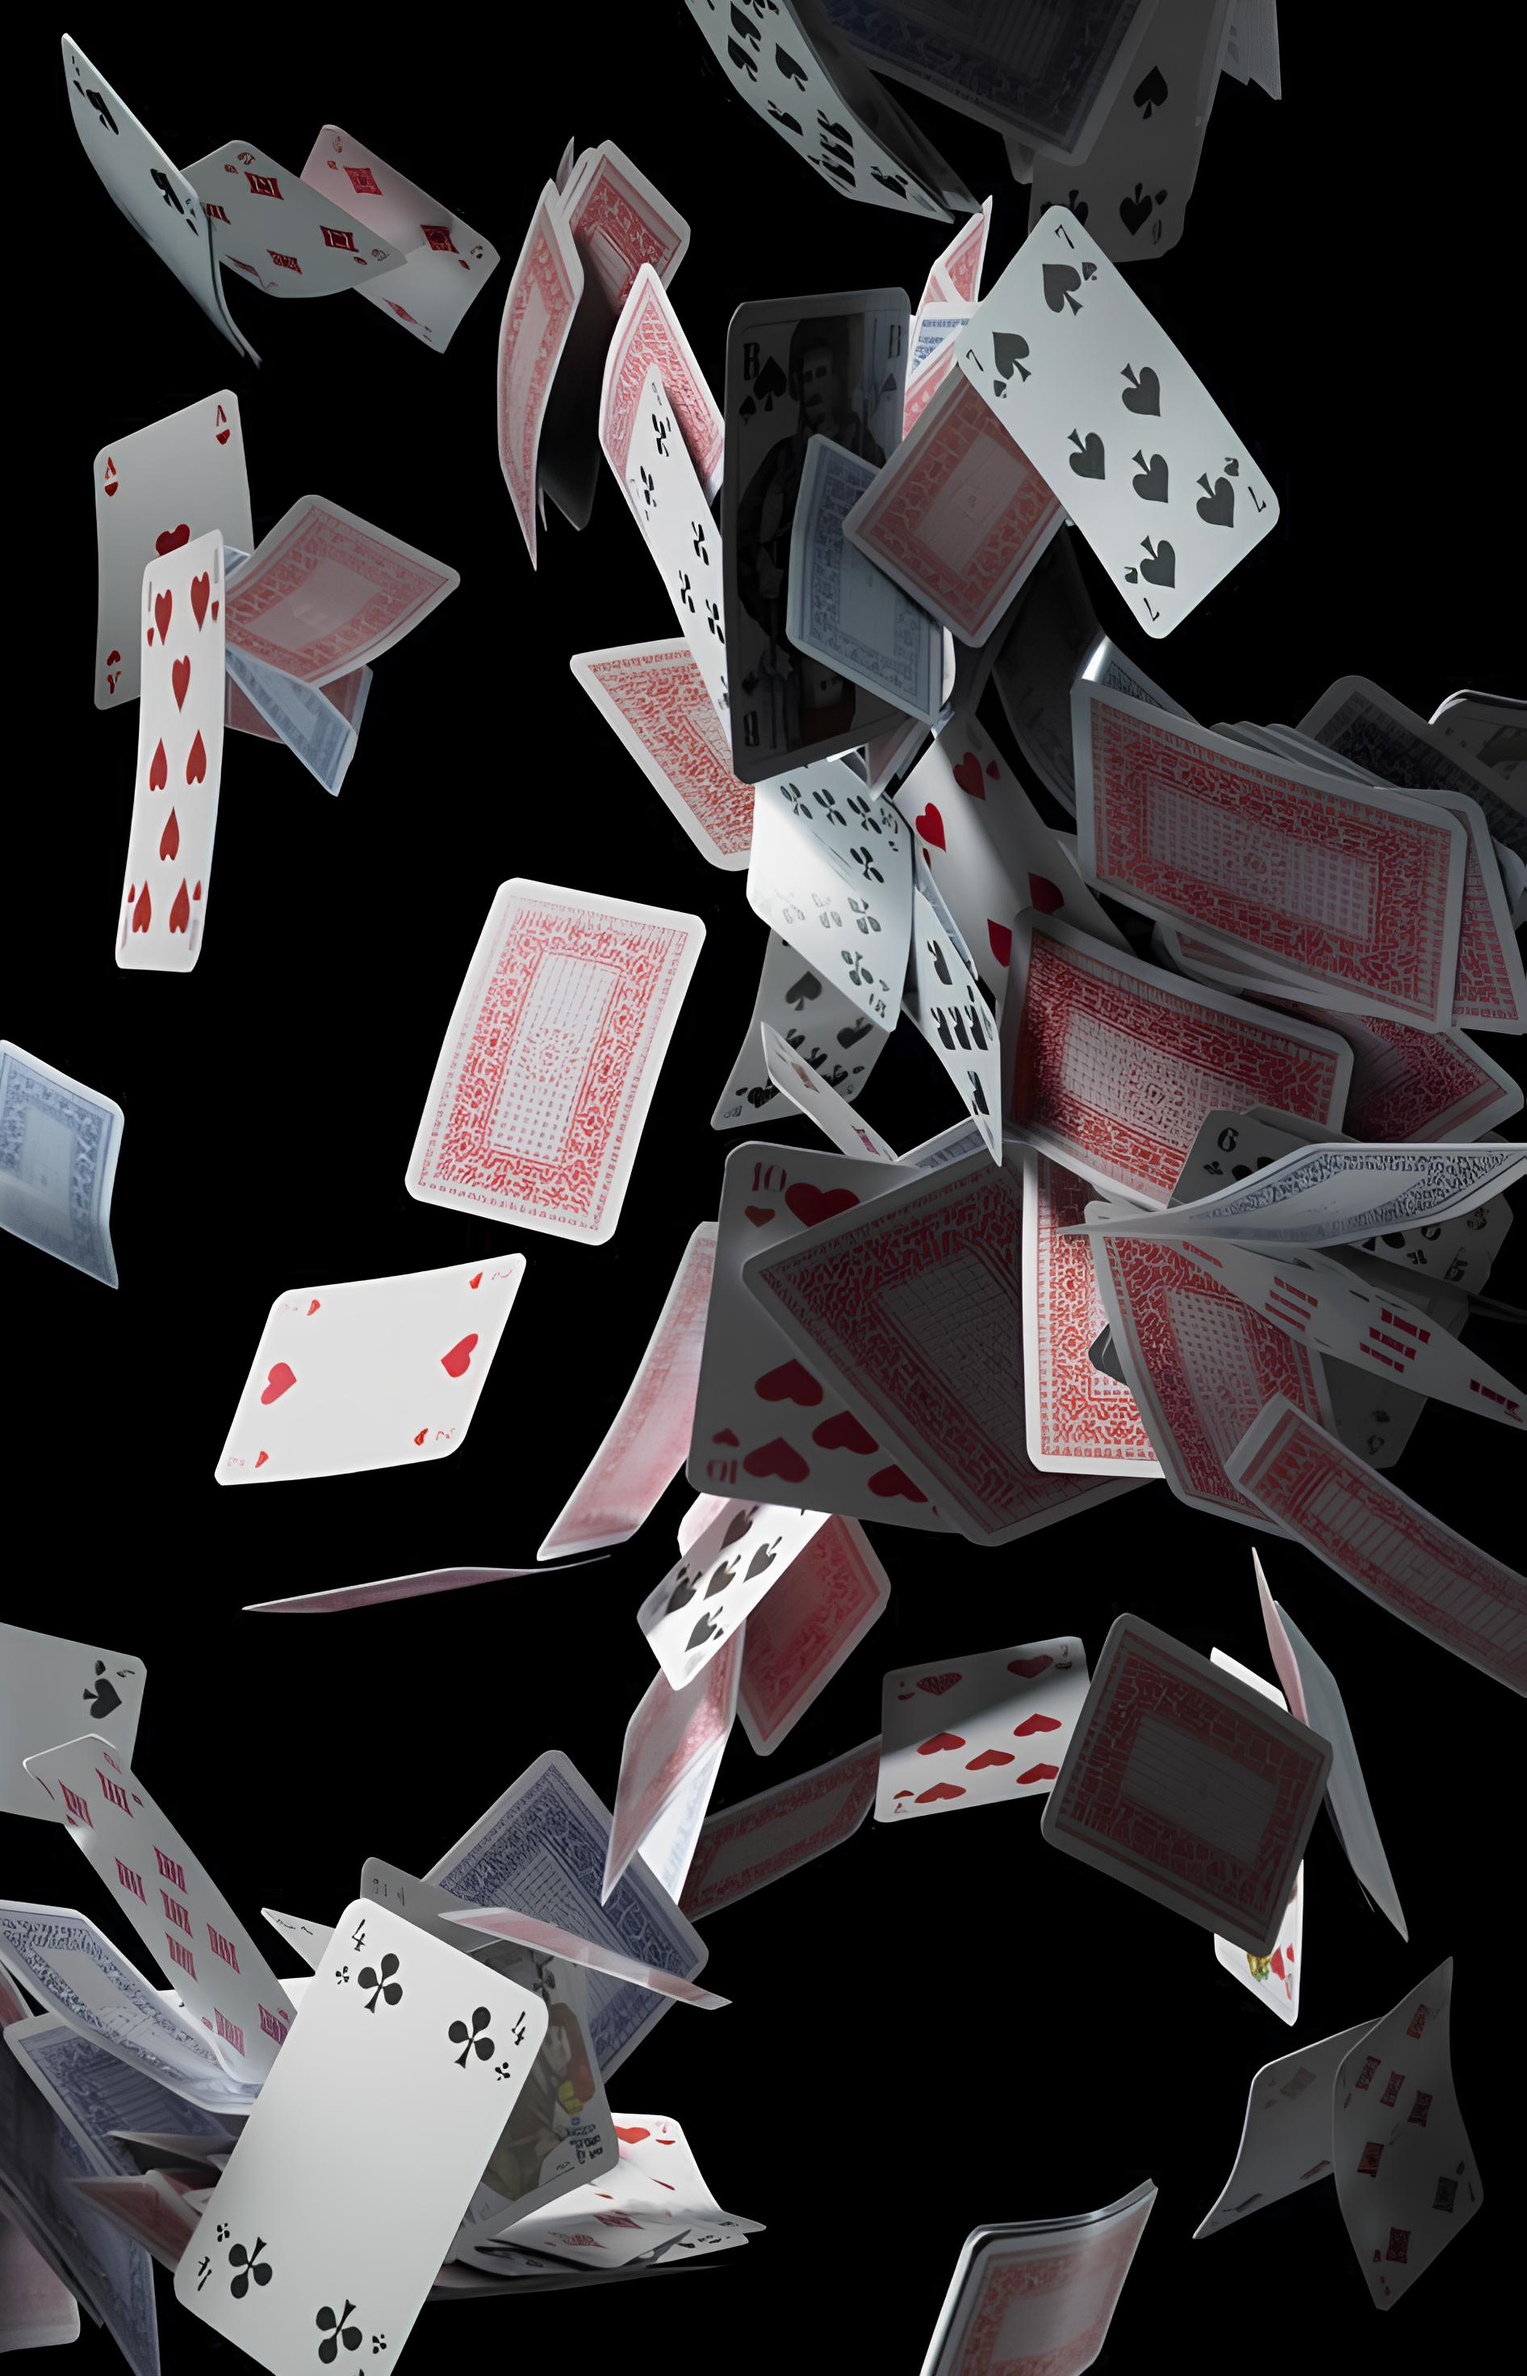
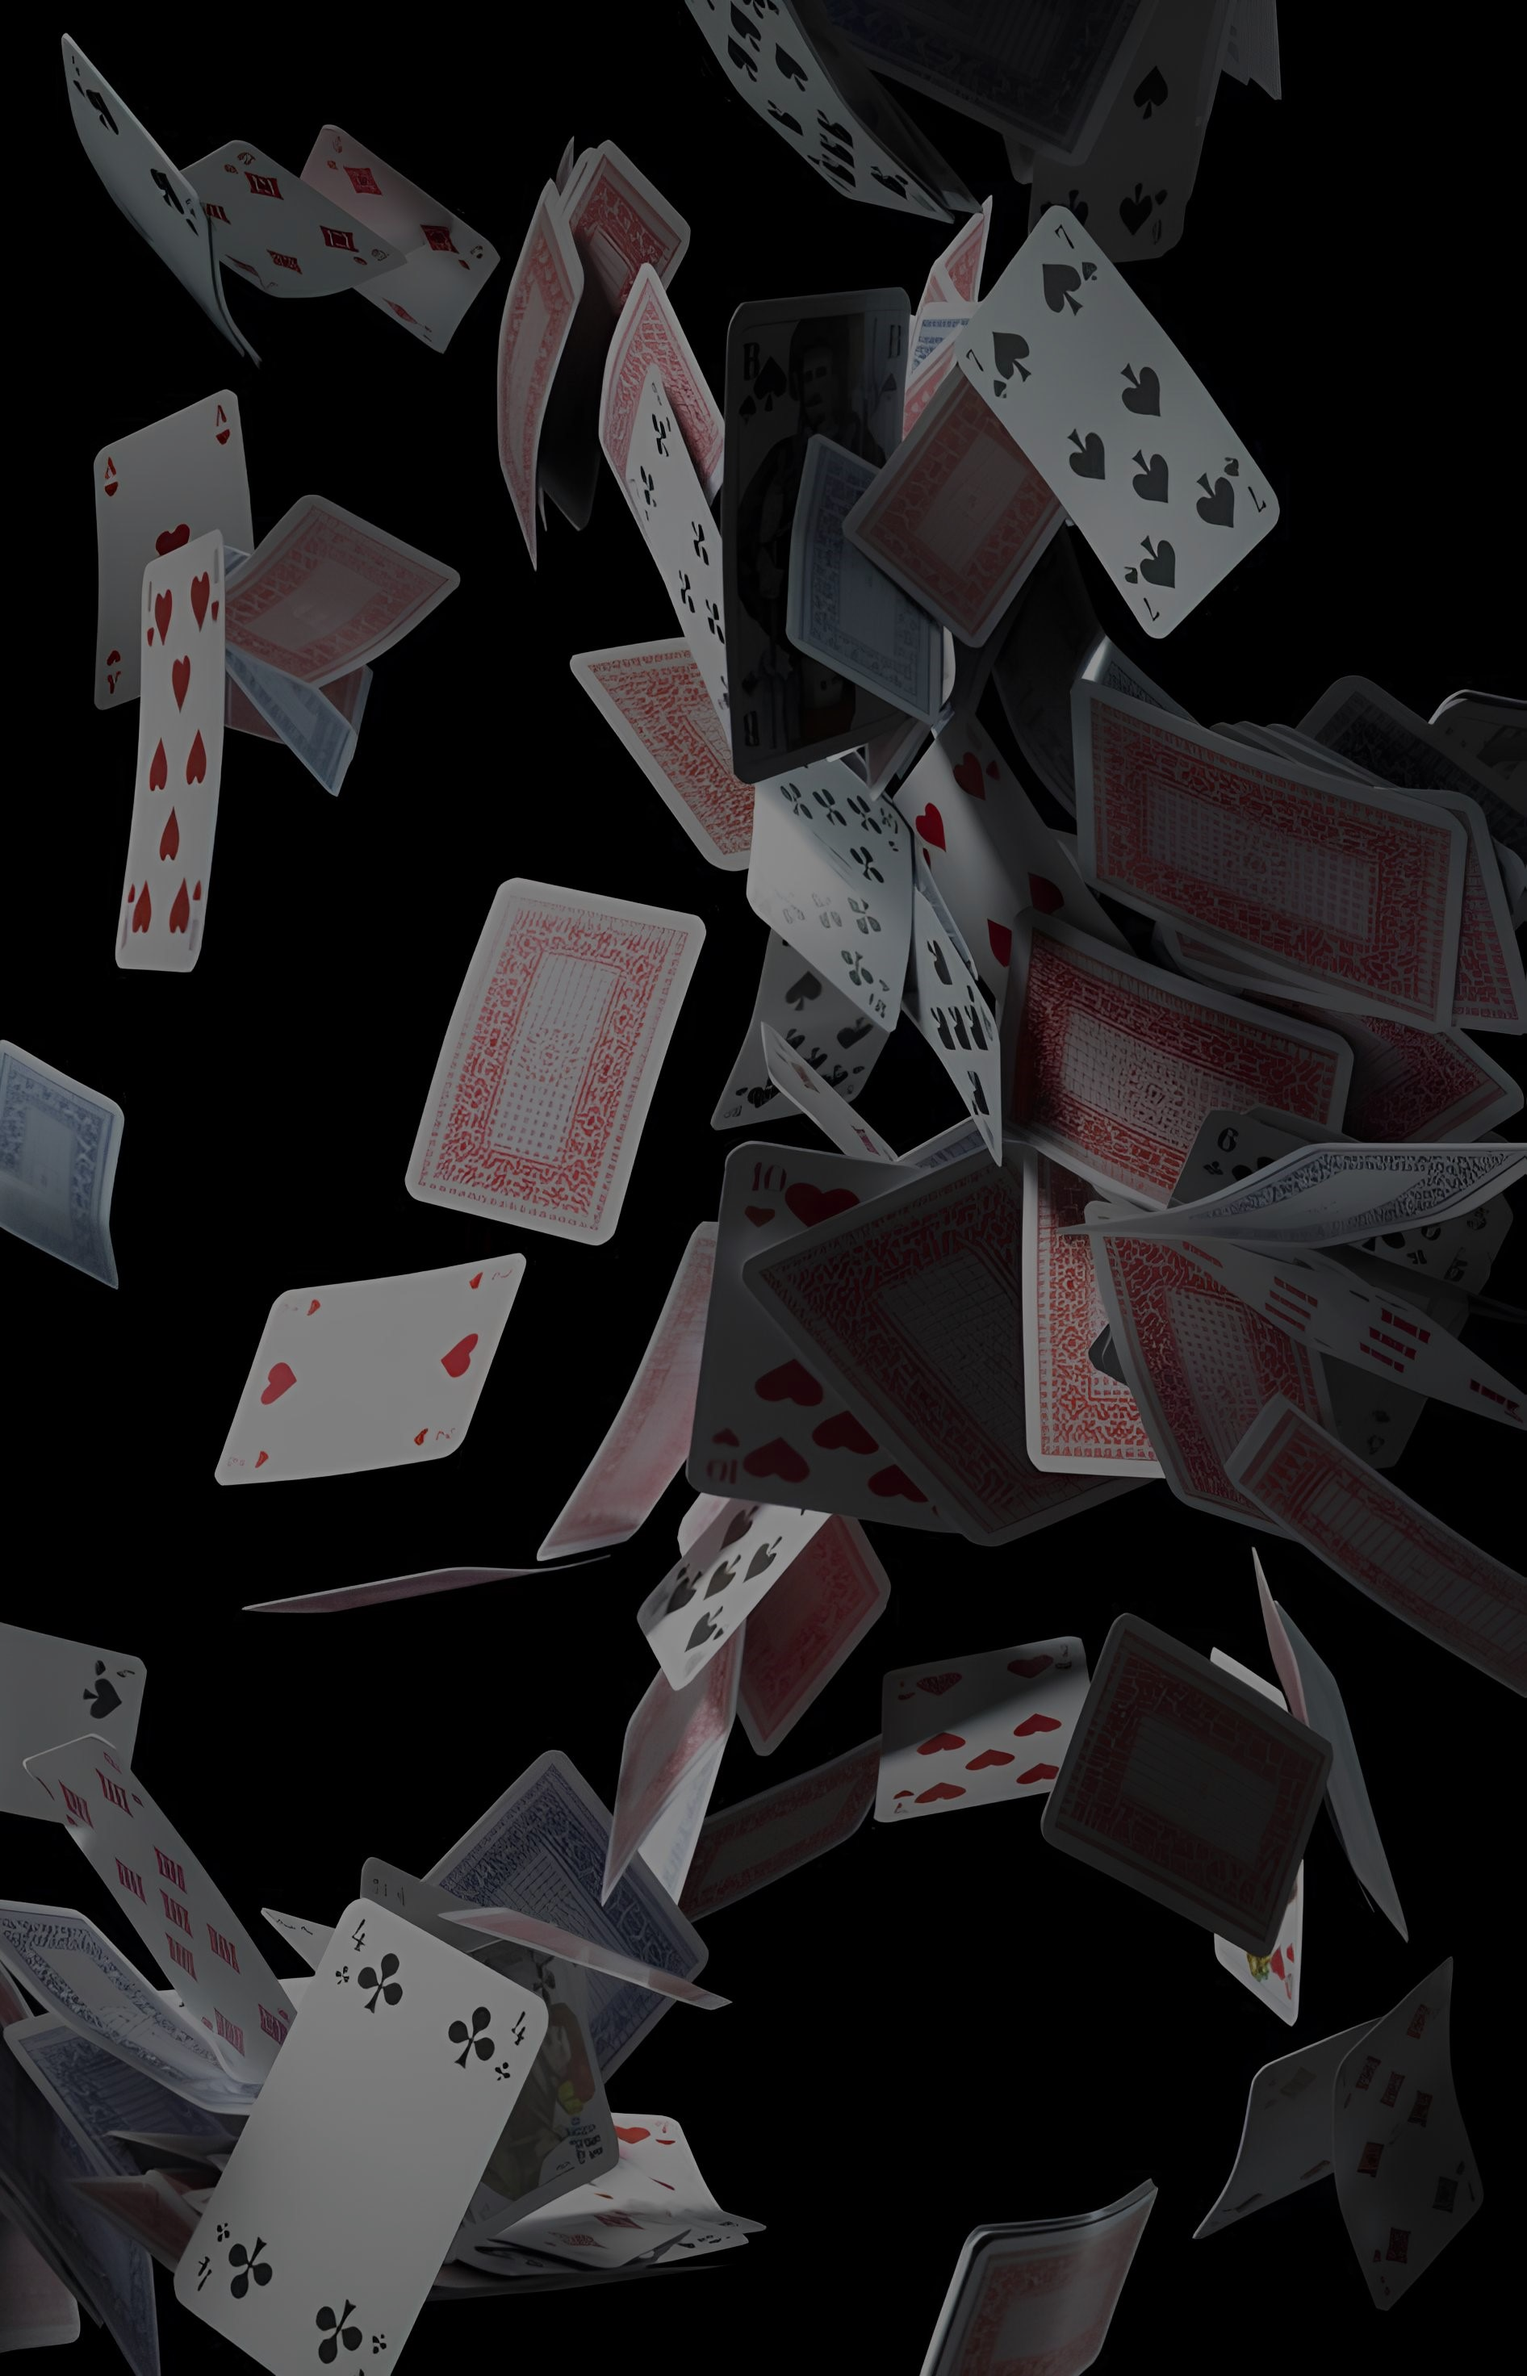
changed wallpapers and colors

diff --git a/static/css/login.css b/static/css/login.css
@@ -6,6 +6,7 @@
     --black: #13131a;
     --bg: #010103;
     --border: .1rem solid rgba(255, 255, 255, .3);
+    --white: #fff;
 }
 
 * {
@@ -52,7 +53,7 @@
     justify-content: center;
     align-items: center;
     min-height: 100vh;
-    background: url("../asssets/playingCardsWallpaper.jpg") no-repeat center;
+    background: url("../asssets/purplePlayingCardsWallpaper.jpg") no-repeat center;
     background-size: cover;
 }
 
@@ -61,7 +62,7 @@
     width: 400px;
     height: 440px;
     background: transparent;
-    border: 2px solid rgba(255, 255, 255, .5);
+    border: var(--border);
     border-radius: 20px;
     backdrop-filter: blur(20px);
     box-shadow: 0 0 30px rgba(0, 0, 0, .5);
@@ -94,6 +95,10 @@
     transform: translateX(400px);
 }
 
+.wrapper .form-box-register h2{
+    color: var(--main-color);
+}
+
 .wrapper.active .form-box-register {
     transition: transform .40s ease;
     transform: translateX(0);
@@ -105,7 +110,7 @@
     right: 0;
     width: 45px;
     height: 45px;
-    background: #2f2f33;
+    background: var(--second-color);
     font-size: 2em;
     color: #fff;
     display: flex;
@@ -118,7 +123,7 @@
 
 .form-box-login h2 {
     font-size: 2em;
-    color: #2f2f33;
+    color: var(--main-color);
     text-align: center;
 }
 
@@ -126,7 +131,7 @@
     position: relative;
     width: 100%;
     height: 50px;
-    border-bottom: 2px solid #2f2f33;
+    border-bottom: 2px solid var(--main-color);
     margin: 30px 0;
 }
 
@@ -136,7 +141,7 @@
     left: 5px; /* Text von links Email Passwort */
     transform: translateY(-50%);
     font-size: 1em;
-    color: #2f2f33;
+    color: var(--white);
     font-weight: 500;
     pointer-events: none;
     transition: .5s;
@@ -154,7 +159,7 @@
     border: none;
     outline: none;
     font-size: 1em;
-    color: #2f2f33;
+    color: var(--white);
     font-weight: 600;
     padding: 0 35px 0 5px;
 }
@@ -163,13 +168,13 @@
     position: absolute;
     right: 8px;
     font-size: 1em;
-    color: #2f2f33;
+    color: var(--main-color);
     line-height: 57px;
 }
 
 .remember-forget {
     font-size: .9em;
-    color: #2f2f33;
+    color: var(--main-color);
     font-weight: 500;
     margin: -15px 0 15px;
     display: flex;
@@ -177,12 +182,12 @@
 }
 
 .remember-forget label input {
-    accent-color: #2f2f33;
+    accent-color: var(--second-color);
     margin-right: 3px;
 }
 
 .remember-forget a {
-    color: #2f2f33;
+    color: var(--main-color);
 }
 
 .remember-forget a:hover {
@@ -192,7 +197,7 @@
 .btn-login {
     width: 100%;
     height: 45px;
-    background: #2f2f33;
+    background: var(--second-color);
     border: none;
     outline: none;
     border-radius: 6px;
@@ -204,14 +209,14 @@
 
 .login-register {
     font-size: .9em;
-    color: #2f2f33;
+    color: var(--main-color);
     text-align: center;
     font-weight: 500;
     margin: 25px 0 10px;
 }
 
 .login-register p a {
-    color: #2f2f33;
+    color: var(--main-color);
     font-weight: 600;
 }
 

diff --git a/templates/login.html b/templates/login.html
@@ -53,7 +53,7 @@
                         <label>Street</label>
                     </div>
                     <div class="input-box">
-                        <span class="icon"><i class="material-icons" style="font-size: 4rem">123</i></span>
+                        <span class="icon"><i class="fa-solid fa-map-location-dot"></i></span>
                         <input type="number" required class="numbers">
                         <label>Postcode</label>
                     </div>

diff --git a/static/css/home.css b/static/css/home.css
@@ -49,7 +49,7 @@
     min-height: 100vh;
     display: flex;
     align-items: center;
-    background: url(/static/asssets/blackBackgroundWithBlueCircles.jpg) center;
+    background: url("../asssets/playingCardsWallpaper.jpg") center;
     background-size: cover;
 }
 
